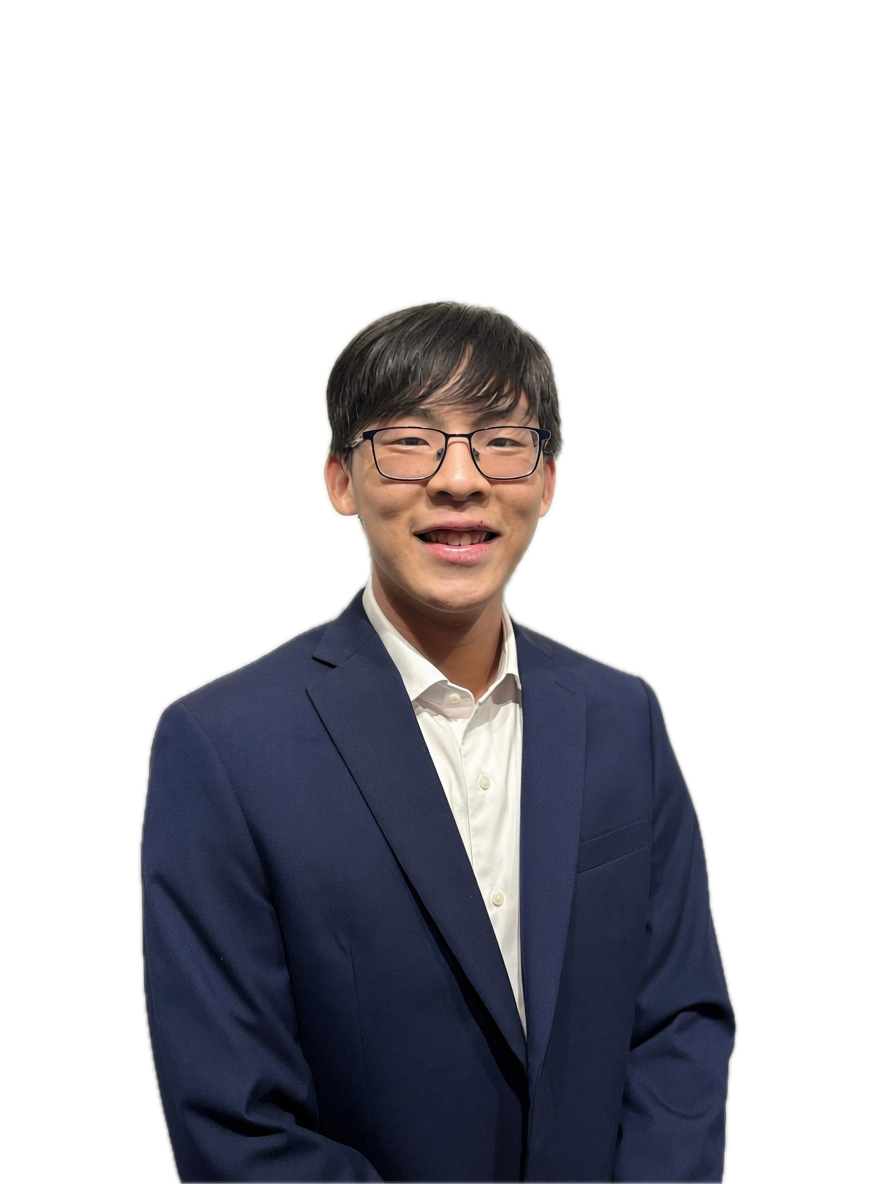
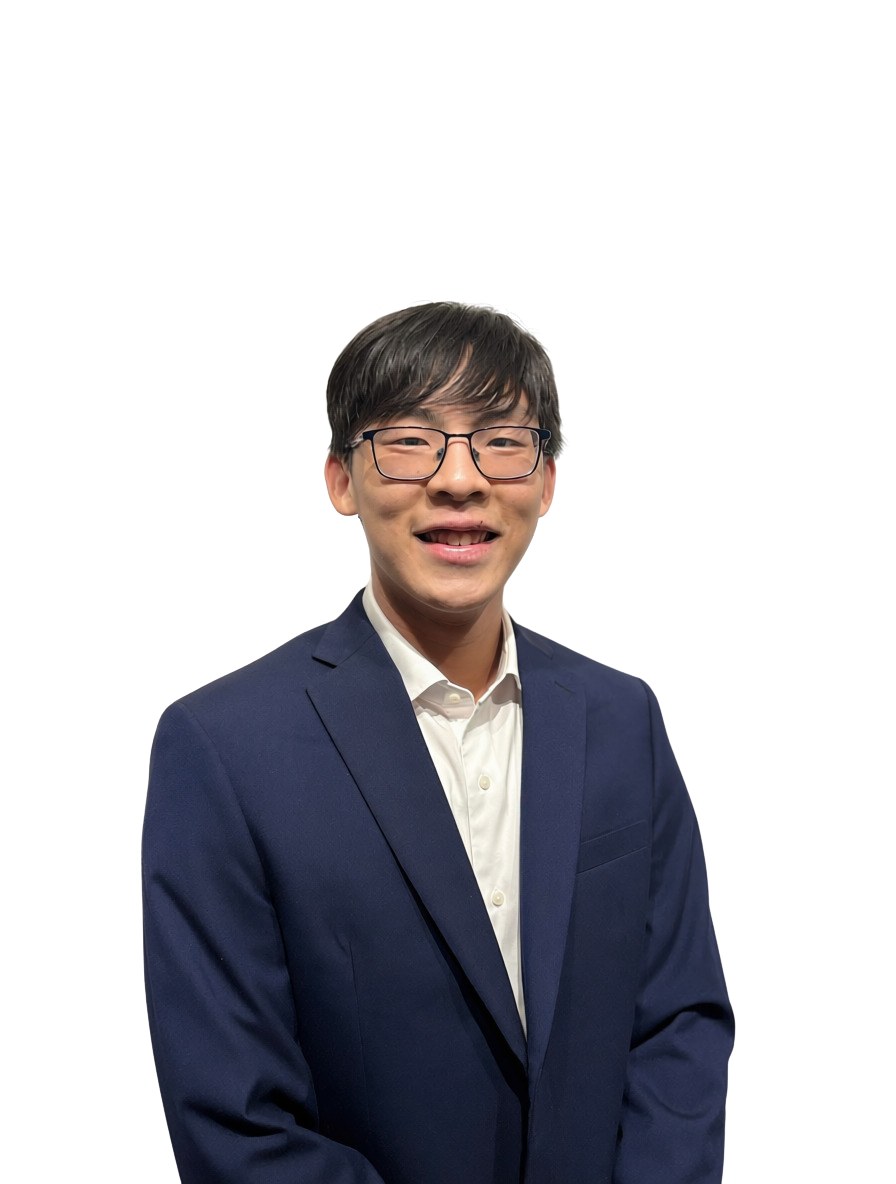
Use supplied replacement portrait

diff --git a/index.html b/index.html
@@ -148,7 +148,7 @@
           <div class="about-intro">
             <h2 id="about-heading">About me</h2>
             <div class="about-profile">
-              <figure class="about-portrait"><img src="assets/headshot.png" width="896" height="1184" alt="Daniel Tam" loading="lazy" /></figure>
+              <figure class="about-portrait"><img src="assets/headshot.png?v=27f88b9319e4" width="896" height="1184" alt="Daniel Tam" loading="lazy" /></figure>
               <div class="about-copy">
                 <p>I study Computer Science and Economics at the University of Maryland, with a focus on cybersecurity.</p>
                 <p>Outside coursework, I build mobile and backend software, teach app development, and lead student communities.</p>

diff --git a/DESIGN.md b/DESIGN.md
@@ -186,7 +186,7 @@ Implemented responsive boundaries are (1100px), (800px), (600px), and (360px), u
 
 The About introduction and education occupy two columns on wide screens. Five experience rows span the full content width below them. Each row separates role, full organization name, and dates; at tablet widths the date moves below the organization, and on phones all three fields stack.
 
-The About introduction pairs a (176px × 220px) masked portrait with prose, separated by (24px). Below (1100px), the portrait sits above the prose. It rests directly on the page without a border, shadow, or circular frame. Its alpha follows the actual subject; the original face and clothing pixels are preserved. The portrait addition was checked at (320px), (375px), (768px), (1101px), (1280px), and (1440px), with no horizontal overflow.
+The About introduction pairs a (176px × 220px) masked portrait with prose, separated by (24px). Below (1100px), the portrait sits above the prose. It rests directly on the page without a border, shadow, or circular frame. Use Daniel's supplied transparent PNG as-is, without additional pixel edits. The portrait addition was checked at (320px), (375px), (768px), (1101px), (1280px), and (1440px), with no horizontal overflow.
 
 The latest CUA browser checks covered widths (320px), (375px), (640px), (768px), (1024px), (1280px), (1440px), and (1920px), with no horizontal overflow. These are desktop browser viewport checks; hardware touch behavior has not been tested. Hallmark’s Puppeteer browser-renderer check was unavailable. The independent Hallmark review returned ship with no material finish findings within the reviewed polish scope.
 

diff --git a/PRODUCT.md b/PRODUCT.md
@@ -48,7 +48,7 @@ Use direct headings and plain language. The hero identifies Daniel by name; Abou
 - The user chose the full phone screenshot after discussing a crop. Use `assets/projects/group-think-app-limit.png` in full beside the study hall capture, captioned as the iOS app limit screen.
 - Two user-supplied Touch by Touch screenshots are published as `assets/projects/touch-by-touch-scoring.png` and `assets/projects/touch-by-touch-school-stats.png`. These are the selected scoring and school statistics views; the gallery uses these two images.
 - Source evidence supports the per-server permission configuration and Firestore profile-listener descriptions. Public documentation should summarize those technical details without publishing private conversation identifiers, local project paths, or raw history.
-- Daniel's supplied portrait appears beside the About introduction as `assets/headshot.png`. The user approved precise background masking; the published asset preserves all visible original RGB pixels and changes only transparency. The original wall background and discarded generated variants are not published.
+- Daniel's supplied transparent replacement portrait appears beside the About introduction as `assets/headshot.png`. Use the supplied PNG as-is, without additional pixel edits. The original wall background and discarded generated variants are not published.
 - No product recordings, testimonials, or independently verified active usage measurements are currently included in the repository.
 - `docs/content-guide.md` records received material, remaining useful evidence, and a reusable project intake template.
 

diff --git a/docs/content-guide.md b/docs/content-guide.md
@@ -17,7 +17,7 @@ The target is software engineering internships. The latest PDF résumé, actual 
 - GroupThink's stale session-total explanation and work on a live Firestore profile listener with cleanup. The source supports describing that work; a verified runtime fix or measured improvement has not been established.
 - All five experience rows with full organization names and dates, the expanded Bachelor of Science degree names, grade point average, First-Year Innovation & Research Experience program, and GIAC issuer name.
 - Preference for direct headings and plain copy, replacing the earlier slogans.
-- Daniel's headshot, displayed in About with a precise foreground mask that preserves the original photo pixels.
+- Daniel's supplied transparent replacement headshot, displayed in About without additional pixel edits.
 
 The site links directly to the supplied PDF résumé. The older DOCX is retained as a legacy file and is not offered as an equivalent download.
 

diff --git a/assets/README.md b/assets/README.md
@@ -3,7 +3,7 @@
 The portfolio uses Daniel's supplied portrait, actual screenshots, and latest résumé.
 
 - `resume.pdf`: latest user-supplied résumé, linked directly from the site.
-- `headshot.png`: Daniel's supplied photo with a foreground alpha mask generated locally using Apple Vision. Every visible RGB pixel matches the original photo; only transparency changed. The About layout crops it for head and shoulders. Do not replace it with a generated likeness.
+- `headshot.png`: Daniel's supplied transparent replacement portrait, copied without pixel edits. The About layout crops it for head and shoulders. Use the supplied image as-is.
 - `resume.docx`: older résumé retained as a legacy file; not linked as a current download.
 - `projects/discord-marketplace.png`: user-supplied Discord marketplace and support workflow capture.
 - `projects/group-think-study-hall.png`: user-supplied GroupThink Study Hall capture showing a shared focus session.
